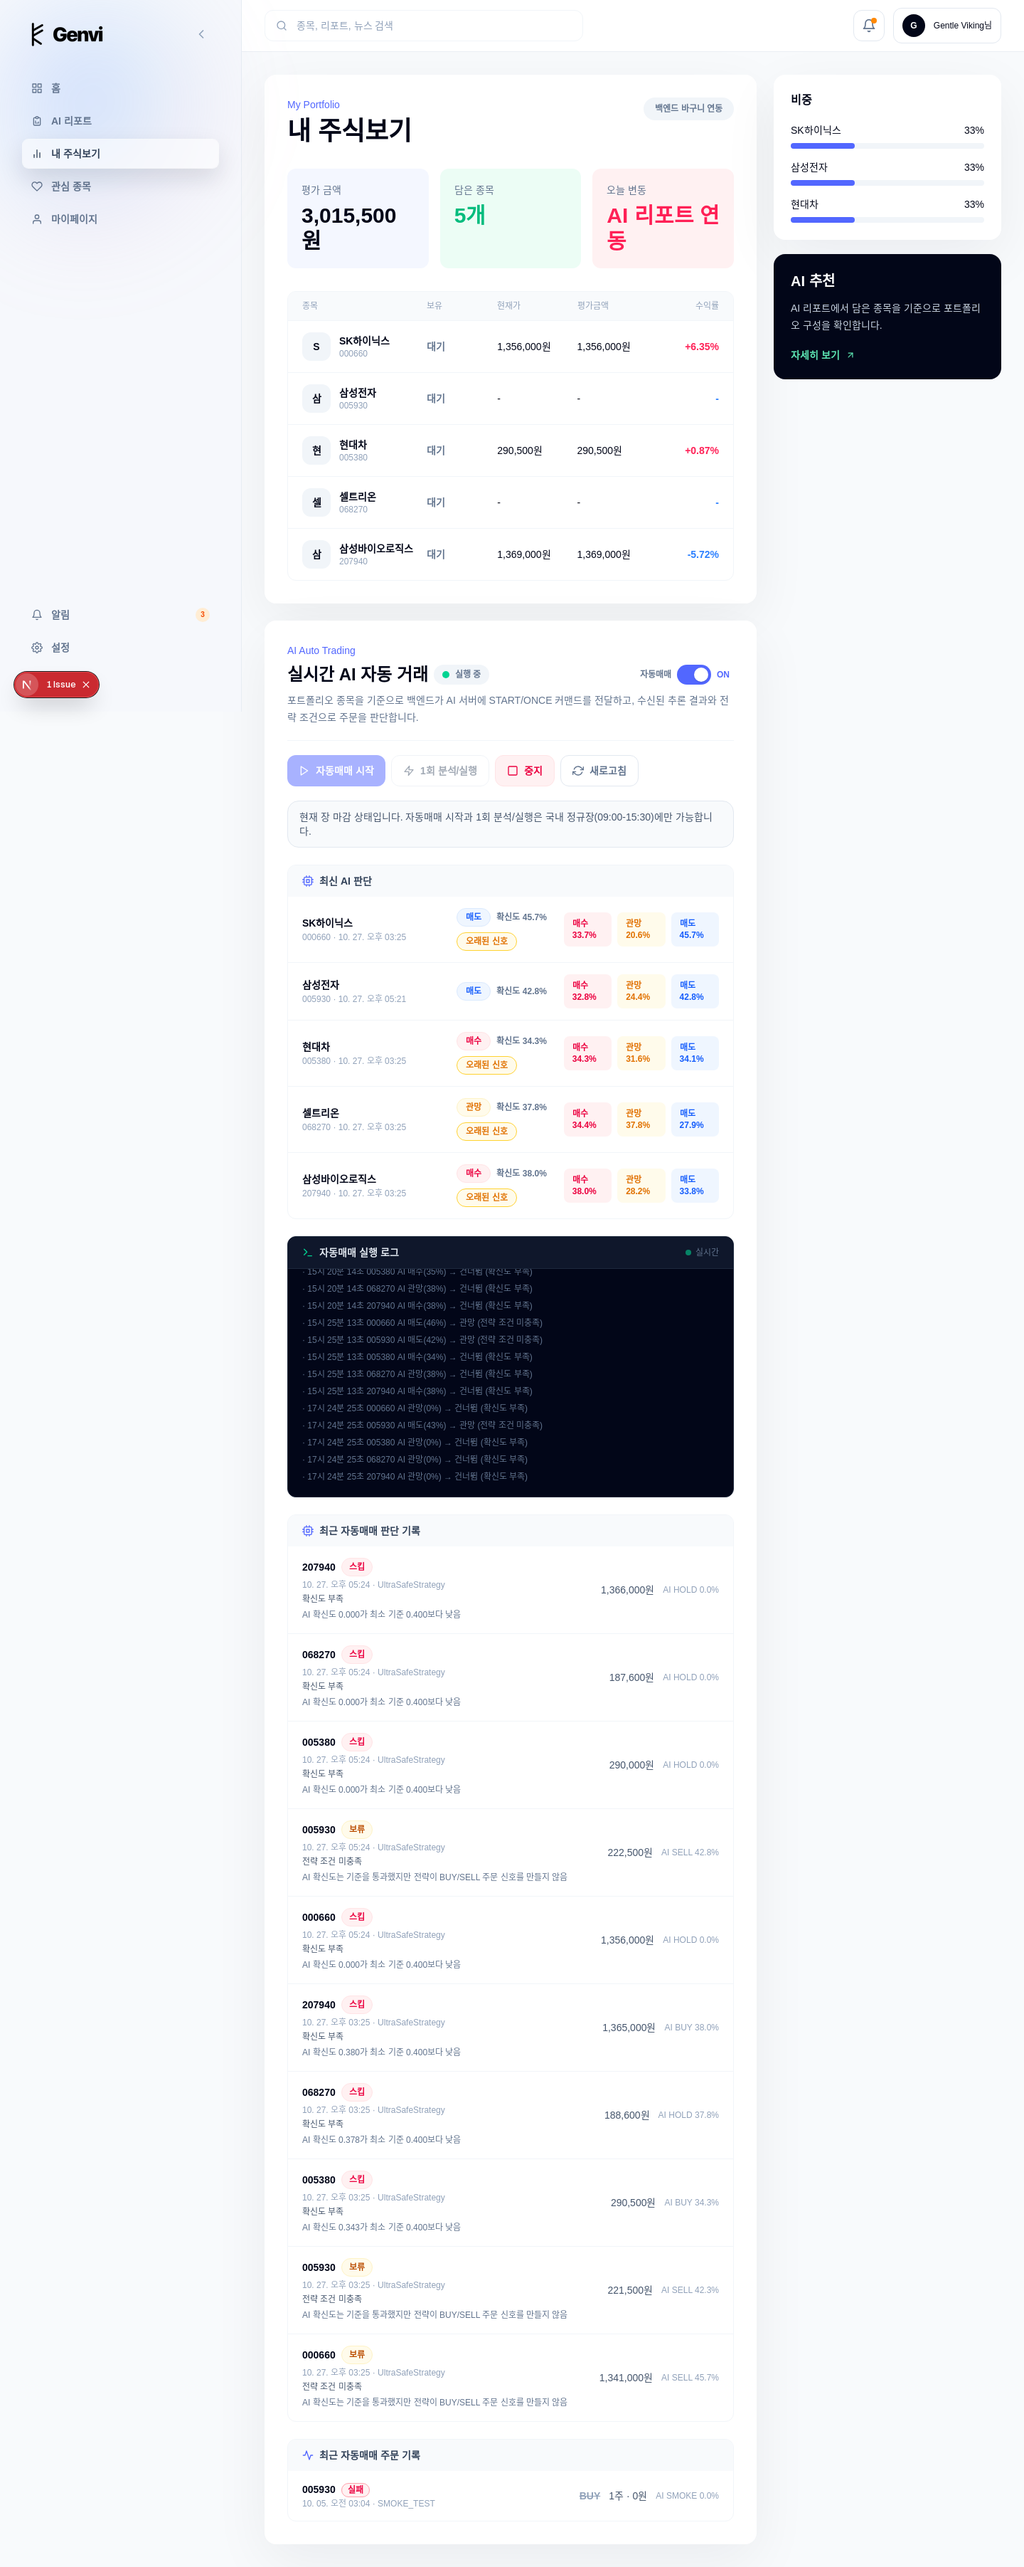
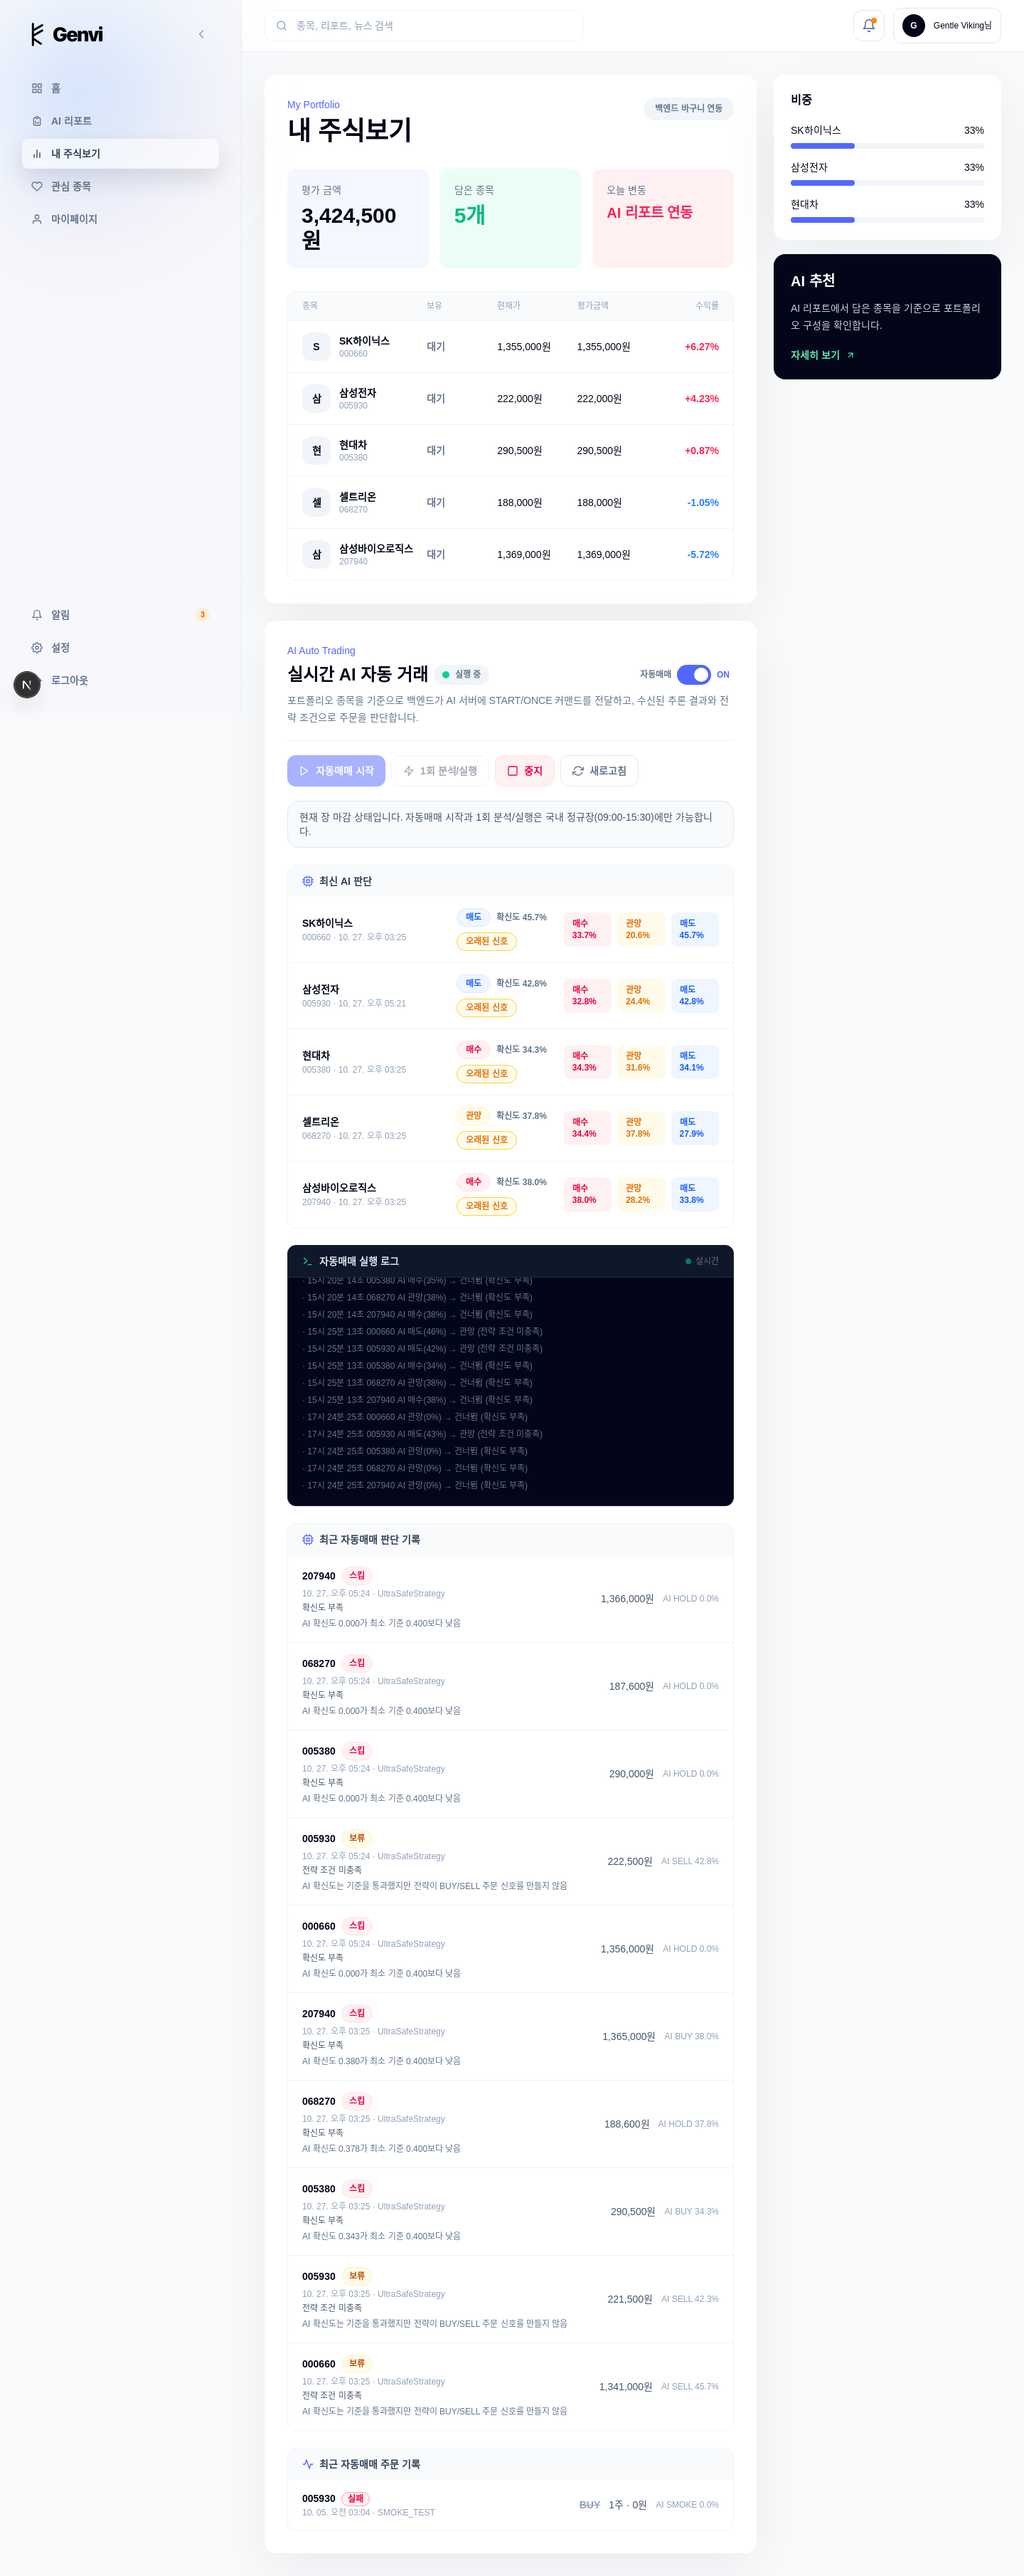
docs: re-capture UI gallery after fixing the actual "AI 리포트 연동" wrap
The earlier sidebar whitespace-nowrap fix was a real fix but not what
was reported -- the wrapping text was "AI 리포트 연동" in the portfolio
page's "오늘 변동" summary card, which reused a text-3xl size meant for
numbers. Sized it down and fixed the actual element; re-shot all 13
screens.

Claude-Session: https://claude.ai/code/session_01QWMoTHrS88tESWLVcNmbEz

diff --git a/docs/ui_screens_gallery.md b/docs/ui_screens_gallery.md
@@ -25,6 +25,9 @@
 
 - `Front-Gentle-Viking` 사이드바에서 "내 주식보기" 메뉴 글자가 두 줄로 밀리던 문제 —
   `whitespace-nowrap` 추가로 해결.
+- 포트폴리오 "오늘 변동" 카드의 "AI 리포트 연동" 텍스트가 두 줄로 밀리던 문제(처음 보고된 건
+  사실 이거였음 — 위 사이드바 건과는 다른 요소) — 숫자용 큰 글씨 크기(`text-3xl`)를 그대로
+  텍스트 라벨에 쓰고 있던 게 원인. `text-xl`로 줄이고 `whitespace-nowrap` 추가.
 - 포트폴리오 화면 종목명/시세 버그 — 별도로 이미 고치고 보고함 (`fix(portfolio): ...` 커밋).
 - AI 예측 상세 페이지(10번)와 종목 상세 페이지(06번)가 종목명을 못 띄우던 버그 — 포트폴리오에서
   쓴 이름 해석 함수(`resolveStockName`)를 공유로 빼서 두 페이지 모두에 적용.
